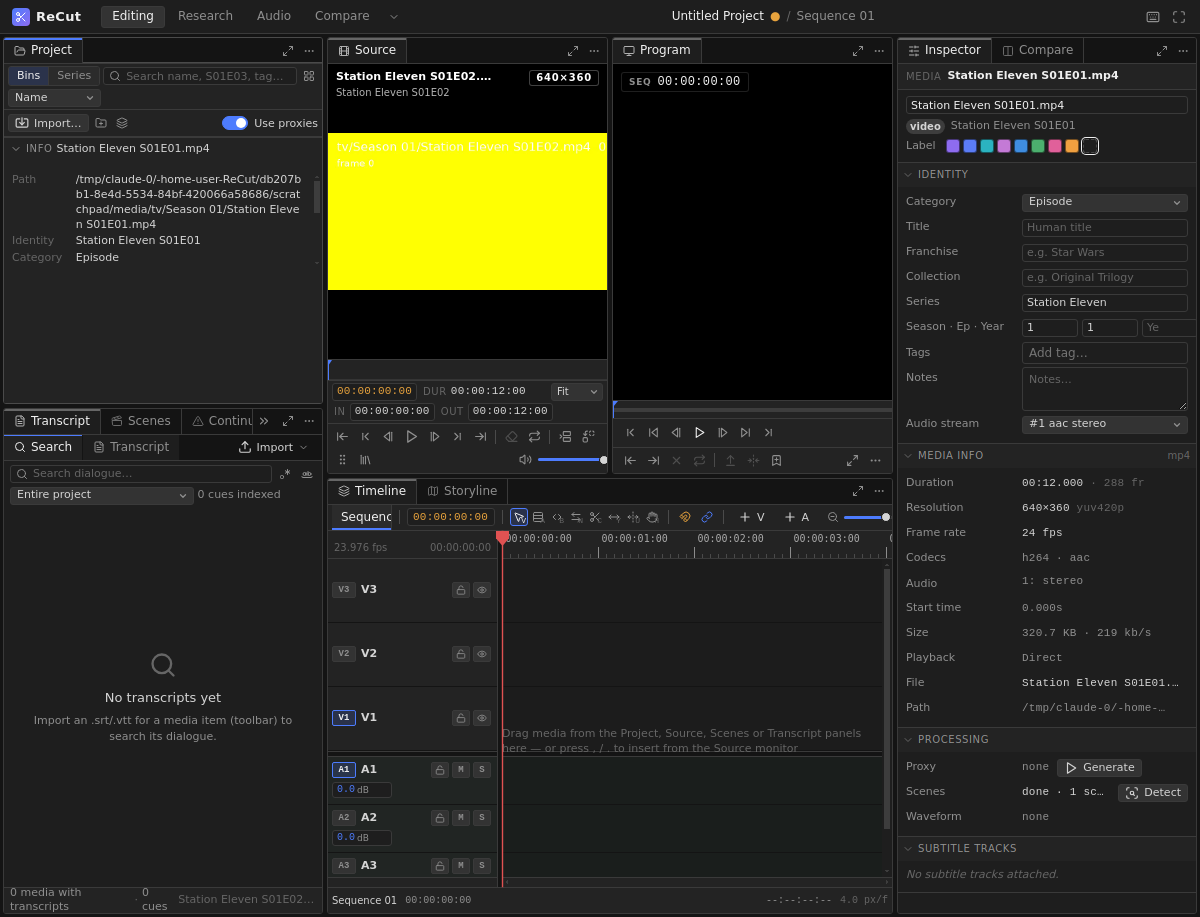
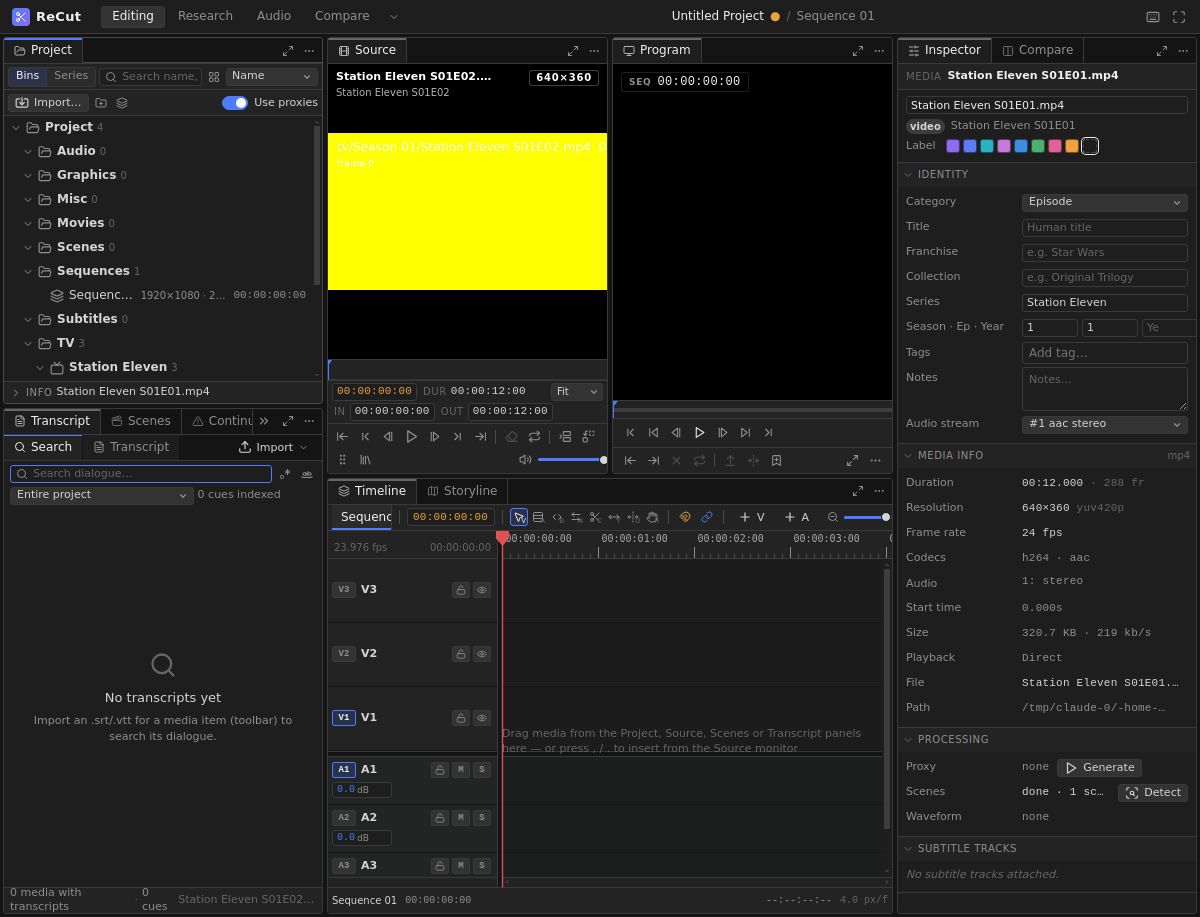
Timeline panel final polish
Claude-Session: https://claude.ai/code/session_019yUCkqtVLnXpGqpkZre9k3

diff --git a/src/panels/project/project.css b/src/panels/project/project.css
@@ -1,16 +1,16 @@
 /* Project / media panel */
 .pp { display: flex; flex-direction: column; height: 100%; min-height: 0; min-width: 0; background: var(--bg-1); outline: none; position: relative; }
-.pp-toolbar { display: flex; align-items: center; gap: 3px; min-height: var(--panel-header-h); padding: 2px 4px; background: var(--bg-2); border-bottom: 1px solid var(--border); flex-wrap: wrap; flex-shrink: 0; }
-.pp-toolbar .input-wrap { flex: 1 1 110px; min-width: 90px; }
-.pp-toolbar .select { max-width: 112px; }
+.pp-toolbar { display: flex; align-items: center; gap: 3px; height: var(--panel-header-h); padding: 0 4px; background: var(--bg-2); border-bottom: 1px solid var(--border); flex-wrap: nowrap; flex-shrink: 0; min-width: 0; overflow: hidden; }
+.pp-toolbar .input-wrap { flex: 1 1 60px; min-width: 50px; }
+.pp-toolbar .select { width: 92px; flex: 0 0 auto; padding-left: 5px; }
 .pp-seg { display: inline-flex; border: 1px solid var(--border); border-radius: var(--radius); overflow: hidden; flex-shrink: 0; }
-.pp-seg > button { height: var(--control-h-sm); padding: 0 8px; border: none; background: var(--bg-3); color: var(--text-dim); font-size: var(--font-size-sm); }
+.pp-seg > button { height: var(--control-h-sm); padding: 0 7px; border: none; background: var(--bg-3); color: var(--text-dim); font-size: var(--font-size-sm); }
 .pp-seg > button + button { border-left: 1px solid var(--border); }
 .pp-seg > button:hover { color: var(--text); background: var(--bg-4); }
 .pp-seg > button.active { background: var(--accent-soft); color: var(--text-bright); }
 .pp-banner { display: flex; align-items: center; gap: 6px; padding: 3px 8px; background: var(--danger-soft); border-bottom: 1px solid var(--danger); color: var(--text-bright); font-size: var(--font-size-sm); flex-shrink: 0; }
 .pp-banner > svg { width: 13px; height: 13px; color: var(--danger); flex-shrink: 0; }
-.pp-body { flex: 1 1 auto; min-height: 0; min-width: 0; position: relative; display: flex; flex-direction: column; }
+.pp-body { flex: 1 1 auto; min-height: 96px; min-width: 0; position: relative; display: flex; flex-direction: column; }
 .pp-body.drop-files::after { content: 'Drop files to import'; position: absolute; inset: 4px; border: 2px dashed var(--accent); border-radius: var(--radius-lg); background: var(--accent-soft); color: var(--text-bright); display: flex; align-items: center; justify-content: center; font-size: 13px; pointer-events: none; z-index: 5; }
 
 /* virtual list */
@@ -76,12 +76,12 @@
 .pp-card-badges { position: absolute; left: 2px; top: 2px; display: flex; gap: 2px; }
 
 /* info footer */
-.pp-info { flex-shrink: 0; border-top: 1px solid var(--border); background: var(--bg-2); font-size: var(--font-size-sm); }
-.pp-info-head { display: flex; align-items: center; gap: 4px; height: 22px; padding: 0 6px; color: var(--text-dim); text-transform: uppercase; letter-spacing: 0.06em; font-size: var(--font-size-xs); }
+.pp-info { flex: 0 1 auto; display: flex; flex-direction: column; min-height: 22px; max-height: 45%; border-top: 1px solid var(--border); background: var(--bg-2); font-size: var(--font-size-sm); }
+.pp-info-head { display: flex; align-items: center; gap: 4px; height: 22px; flex-shrink: 0; padding: 0 6px; color: var(--text-dim); text-transform: uppercase; letter-spacing: 0.06em; font-size: var(--font-size-xs); }
 .pp-info-head:hover { color: var(--text); }
 .pp-info-head > svg { width: 12px; height: 12px; }
 .pp-info-head .title { color: var(--text); text-transform: none; letter-spacing: 0; font-size: var(--font-size-sm); overflow: hidden; text-overflow: ellipsis; white-space: nowrap; }
-.pp-info-body { max-height: min(140px, 35%); overflow: auto; padding: 2px 8px 6px; display: grid; grid-template-columns: max-content 1fr; column-gap: 10px; row-gap: 2px; }
+.pp-info-body { max-height: 150px; min-height: 0; overflow: auto; padding: 2px 8px 6px; display: grid; grid-template-columns: max-content 1fr; column-gap: 10px; row-gap: 2px; }
 .pp-info-body dt { color: var(--text-faint); white-space: nowrap; }
 .pp-info-body dd { margin: 0; min-width: 0; overflow: hidden; text-overflow: ellipsis; white-space: nowrap; color: var(--text); user-select: text; -webkit-user-select: text; }
 .pp-info-body dd.wrap { white-space: normal; word-break: break-all; }

diff --git a/tests/e2e/project.spec.ts b/tests/e2e/project.spec.ts
@@ -35,8 +35,11 @@ test.beforeAll(async () => {
   page.on('pageerror', (e) => console.log('[renderer:pageerror]', e.message));
   page.on('console', (m) => { if (m.type() === 'error') console.log('[renderer:error]', m.text()); });
   // Deterministic layout for screenshots.
-  await page.waitForLoadState('domcontentloaded');
-  await page.evaluate(() => { localStorage.removeItem('recut.layout.v1'); });
+  await page.waitForSelector('#root', { state: 'attached', timeout: 60_000 });
+  for (let attempt = 0; attempt < 3; attempt++) {
+    try { await page.evaluate(() => { localStorage.removeItem('recut.layout.v1'); }); break; }
+    catch { await page.waitForTimeout(500); } // execution context replaced during startup; retry
+  }
   await page.reload();
   const mounted = await page.waitForSelector('#root .layout', { timeout: 20_000 }).then(() => true, () => false);
   if (!mounted) {
@@ -188,11 +191,13 @@ test('screenshot', async () => {
   const dir = path.join(root, 'docs/screenshots');
   fs.mkdirSync(dir, { recursive: true });
   // Maximized panel with the info footer open: thumbnails are lazy, give them a moment to land.
+  await setMaximized(true);
   await page.locator('[data-row-kind="media"]').first().click();
   await page.getByTestId('info-footer').locator('.pp-info-head').click();
   await page.waitForTimeout(1500);
   await page.getByTestId('project-panel').screenshot({ path: path.join(dir, 'project-panel.png') });
-  // Normal layout for the docs shot.
+  // Normal layout for the docs shot (footer collapsed so the list gets the room).
+  await page.getByTestId('info-footer').locator('.pp-info-head').click();
   await setMaximized(false);
   await page.waitForTimeout(800);
   await page.screenshot({ path: path.join(dir, 'project.png') });

diff --git a/src/panels/transcript/SearchTab.tsx b/src/panels/transcript/SearchTab.tsx
@@ -74,7 +74,13 @@ export function SearchTab({ index, active }: SearchTabProps) {
   useEffect(() => { setSelected(result.matches.length ? 0 : -1); }, [debounced, scopeKey, regex, wholeWord]); // eslint-disable-line react-hooks/exhaustive-deps
   useEffect(() => { setSelected((s) => (s >= result.matches.length ? result.matches.length - 1 : s)); }, [result.matches.length]);
   useEffect(() => { if (selected >= 0 && matchRowIndex[selected] !== undefined) listRef.current?.scrollToIndex(matchRowIndex[selected]); }, [selected, matchRowIndex]);
-  useEffect(() => { if (active) barRef.current?.querySelector('input')?.focus(); }, [active]);
+  // Focus the search box when the user switches to this panel/tab — not on mount, so launching the app with the
+  // Transcript tab visible does not steal keyboard focus from the global single-key shortcuts.
+  const wasActive = useRef(active);
+  useEffect(() => {
+    if (active && !wasActive.current) barRef.current?.querySelector('input')?.focus();
+    wasActive.current = active;
+  }, [active]);
 
   const load = useCallback((m: TranscriptMatch) => loadInSource(m.entry.mediaId, m.entry.cue.start, m.entry.cue.end), []);
   const insert = useCallback((m: TranscriptMatch) => insertAtPlayhead(m.entry.mediaId, m.entry.cue.start, m.entry.cue.end), []);

diff --git a/src/panels/transcript/TranscriptPanel.tsx b/src/panels/transcript/TranscriptPanel.tsx
@@ -80,9 +80,9 @@ export function TranscriptPanel({ active }: PanelProps) {
         <div className={['col grow', tab === 'transcript' ? '' : 'hidden'].join(' ')}><TranscriptView active={active && tab === 'transcript'} /></div>
       </div>
       <div className="panel-footer" data-testid="transcript-stats">
-        <span>{index.stats.mediaWithTranscripts} media with transcripts</span>
+        <span className="nowrap">{index.stats.mediaWithTranscripts} media with transcripts</span>
         <span className="text-faint">·</span>
-        <span>{index.stats.cues} cues</span>
+        <span className="nowrap">{index.stats.cues} cues</span>
         {targetMedia ? <span className="ml-auto ellipsis text-faint" title={targetMedia.path}>{targetMedia.name}</span> : null}
       </div>
     </div>
